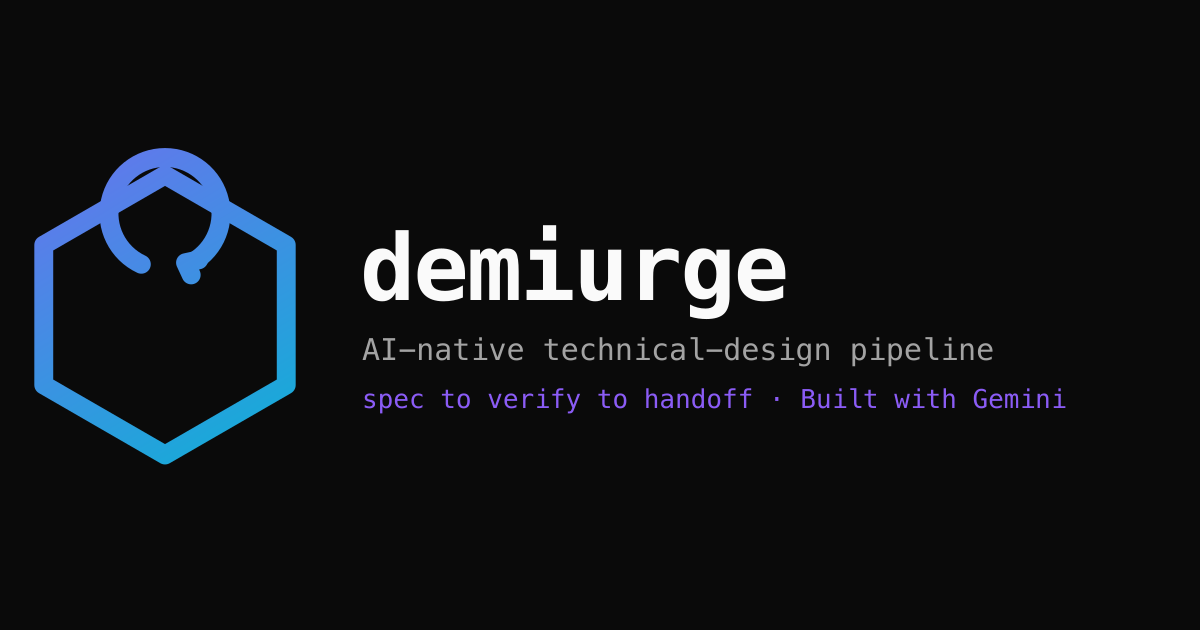
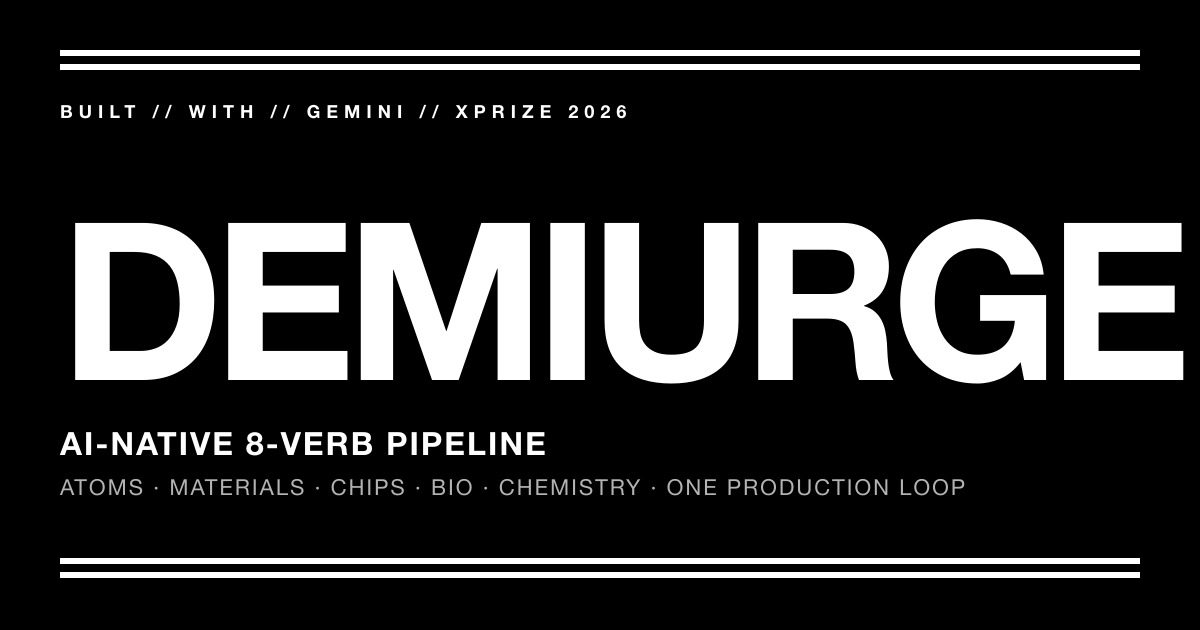
feat(brand): 로고 typographic 전환 (DEMI/URGE.) + dashboard strict Mono (#326)
브랜드:
- icon.svg / apple-icon: 스택 DEMI / URGE. (노랑 마침표) 흑백 정사각
- logo.svg: 가로 DEMIURGE. 한 줄
- og: 1200×630 거대 DEMIURGE. + 띠 + 태그라인
- gen-brand.mjs: 헥사로프 → typographic 전환, 3-색 팔레트 invariant 유지

대시보드 strict Mono (1번 채택):
- 진행바 bg-violet-500 → bg-neutral-900/100 (Mono 가이드)
- spine hover violet → neutral
- assist 카드 hover-border violet → neutral
- main h-[calc-3.5rem] → h-screen (글로벌 헤더 #325에서 격리되어 풀-스크린)

diff --git a/web/app/dashboard/page.tsx b/web/app/dashboard/page.tsx
@@ -75,7 +75,7 @@ export default async function DashboardPage({
   const activeName = active?.name ?? "";
 
   return (
-    <main className="mx-auto flex h-[calc(100vh-3.5rem)] max-w-[1600px] flex-col font-mono">
+    <main className="mx-auto flex h-screen max-w-[1600px] flex-col font-mono">
       {/* ④ top toolbar */}
       <div className="flex items-center justify-between gap-4 border-b border-neutral-200 px-6 py-3 dark:border-neutral-800">
         <div className="flex items-center gap-3">
@@ -91,7 +91,7 @@ export default async function DashboardPage({
             </span>
             <div className="h-2 w-40 overflow-hidden rounded-full bg-neutral-200 dark:bg-neutral-800">
               <div
-                className="h-full rounded-full bg-violet-500"
+                className="h-full rounded-full bg-neutral-900 dark:bg-neutral-100"
                 style={{ width: `${pct}%` }}
               />
             </div>
@@ -115,7 +115,7 @@ export default async function DashboardPage({
               <Link
                 key={verb}
                 href={href}
-                className="flex items-center gap-2 rounded px-2 py-1.5 text-neutral-600 hover:bg-neutral-100 hover:text-violet-600 dark:text-neutral-400 dark:hover:bg-neutral-900"
+                className="flex items-center gap-2 rounded px-2 py-1.5 text-neutral-600 hover:bg-neutral-100 hover:text-neutral-900 dark:text-neutral-400 dark:hover:bg-neutral-900 dark:hover:text-neutral-50"
               >
                 <span className="w-4 text-right text-[11px] text-neutral-400">
                   {i === 0 ? "8" : i}
@@ -167,25 +167,25 @@ export default async function DashboardPage({
             <div className="flex flex-col gap-2">
               <Link
                 href={`/spec/${encodeURIComponent(activeName)}`}
-                className="rounded border border-neutral-200 px-3 py-2 hover:border-violet-400 dark:border-neutral-800"
+                className="rounded border border-neutral-200 px-3 py-2 hover:border-neutral-500 hover:bg-neutral-50 dark:border-neutral-800 dark:hover:border-neutral-500 dark:hover:bg-neutral-900"
               >
                 ✍️ {t(m, "dashboard.assist_spec")}
               </Link>
               <Link
                 href={`/analyze/${encodeURIComponent(activeName)}`}
-                className="rounded border border-neutral-200 px-3 py-2 hover:border-violet-400 dark:border-neutral-800"
+                className="rounded border border-neutral-200 px-3 py-2 hover:border-neutral-500 hover:bg-neutral-50 dark:border-neutral-800 dark:hover:border-neutral-500 dark:hover:bg-neutral-900"
               >
                 📡 {t(m, "dashboard.assist_analyze")}
               </Link>
               <Link
                 href={`/verify/${encodeURIComponent(activeName)}`}
-                className="rounded border border-neutral-200 px-3 py-2 hover:border-violet-400 dark:border-neutral-800"
+                className="rounded border border-neutral-200 px-3 py-2 hover:border-neutral-500 hover:bg-neutral-50 dark:border-neutral-800 dark:hover:border-neutral-500 dark:hover:bg-neutral-900"
               >
                 ✓ {t(m, "dashboard.assist_verify")}
               </Link>
               <Link
                 href="/discover"
-                className="rounded border border-neutral-200 px-3 py-2 hover:border-violet-400 dark:border-neutral-800"
+                className="rounded border border-neutral-200 px-3 py-2 hover:border-neutral-500 hover:bg-neutral-50 dark:border-neutral-800 dark:hover:border-neutral-500 dark:hover:bg-neutral-900"
               >
                 🔭 {t(m, "dashboard.assist_discover")}
               </Link>